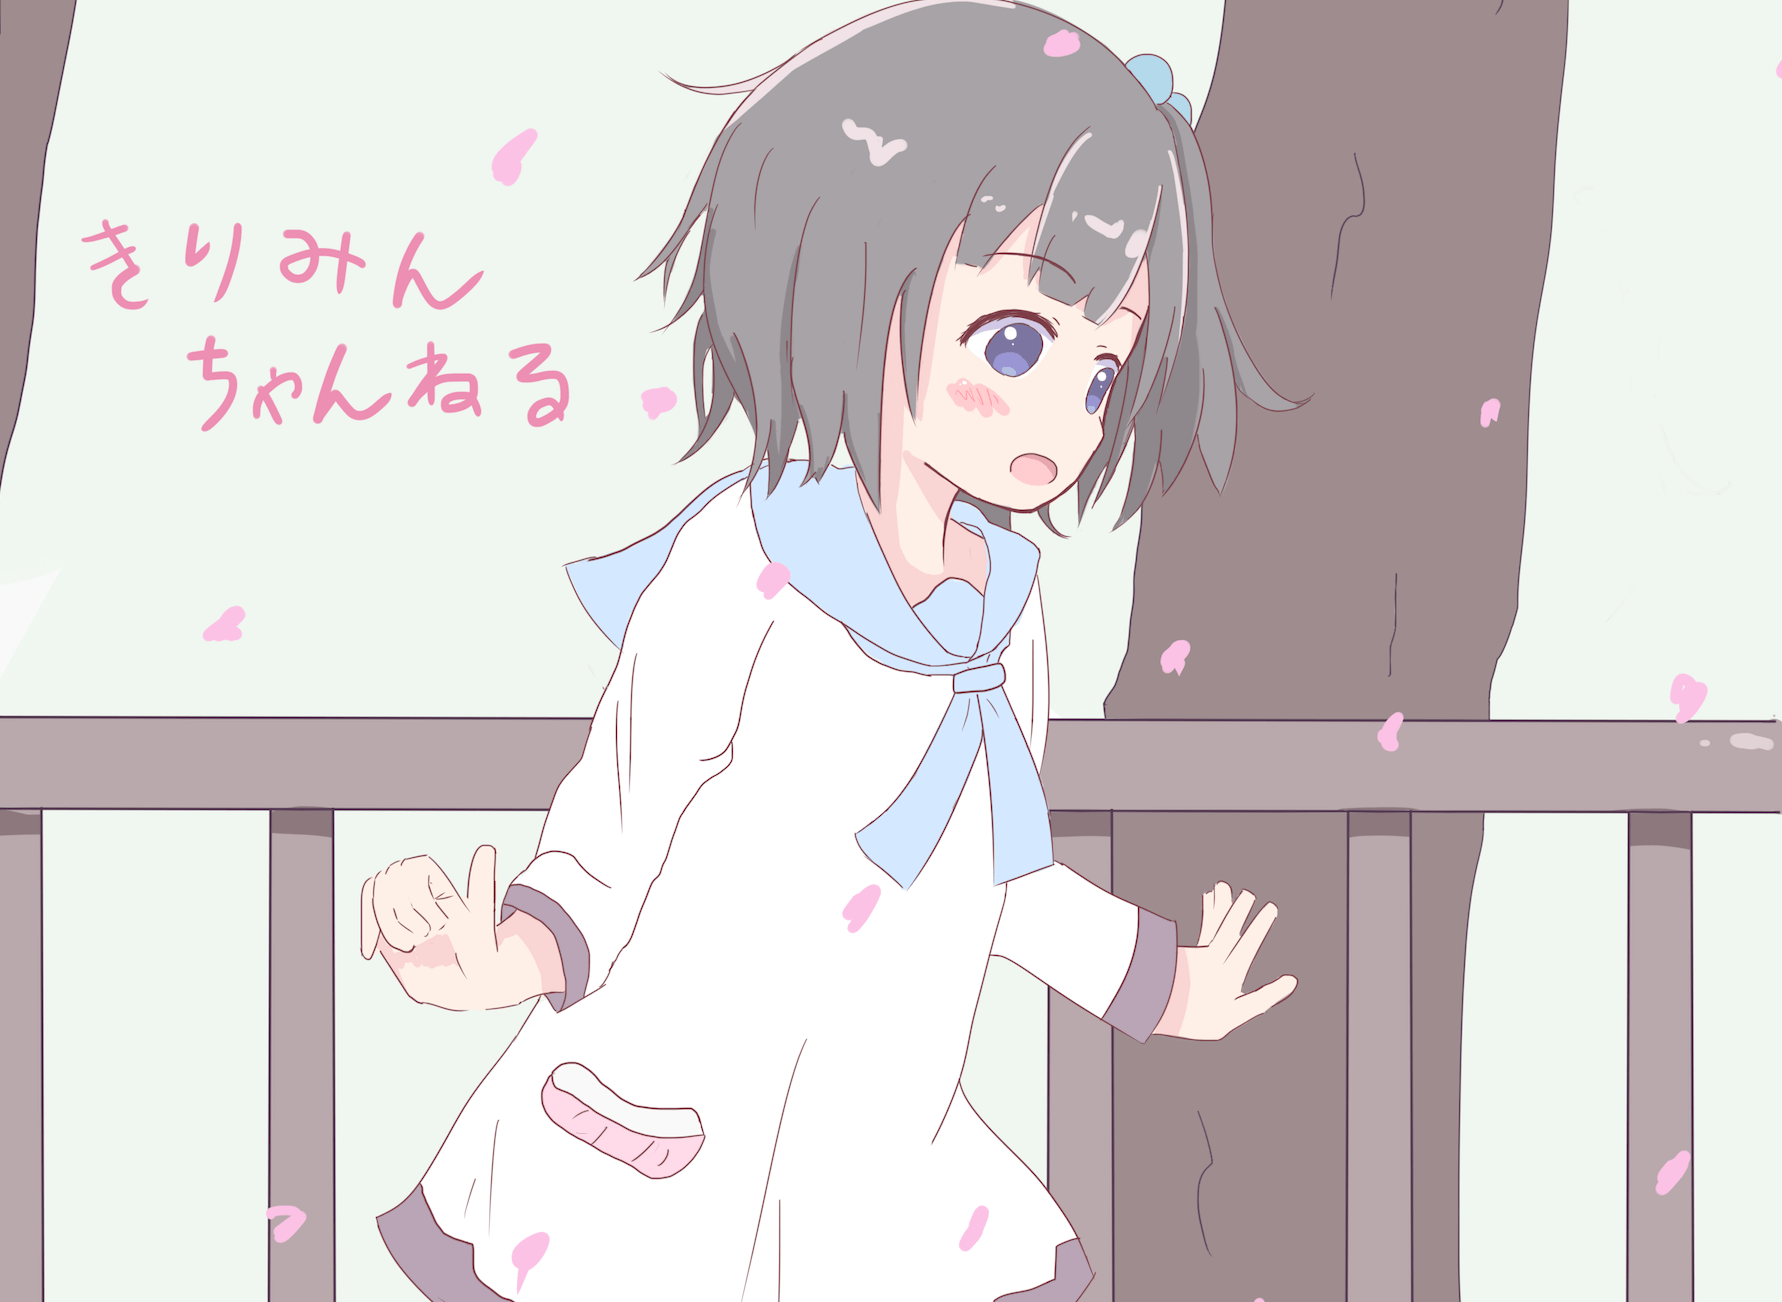
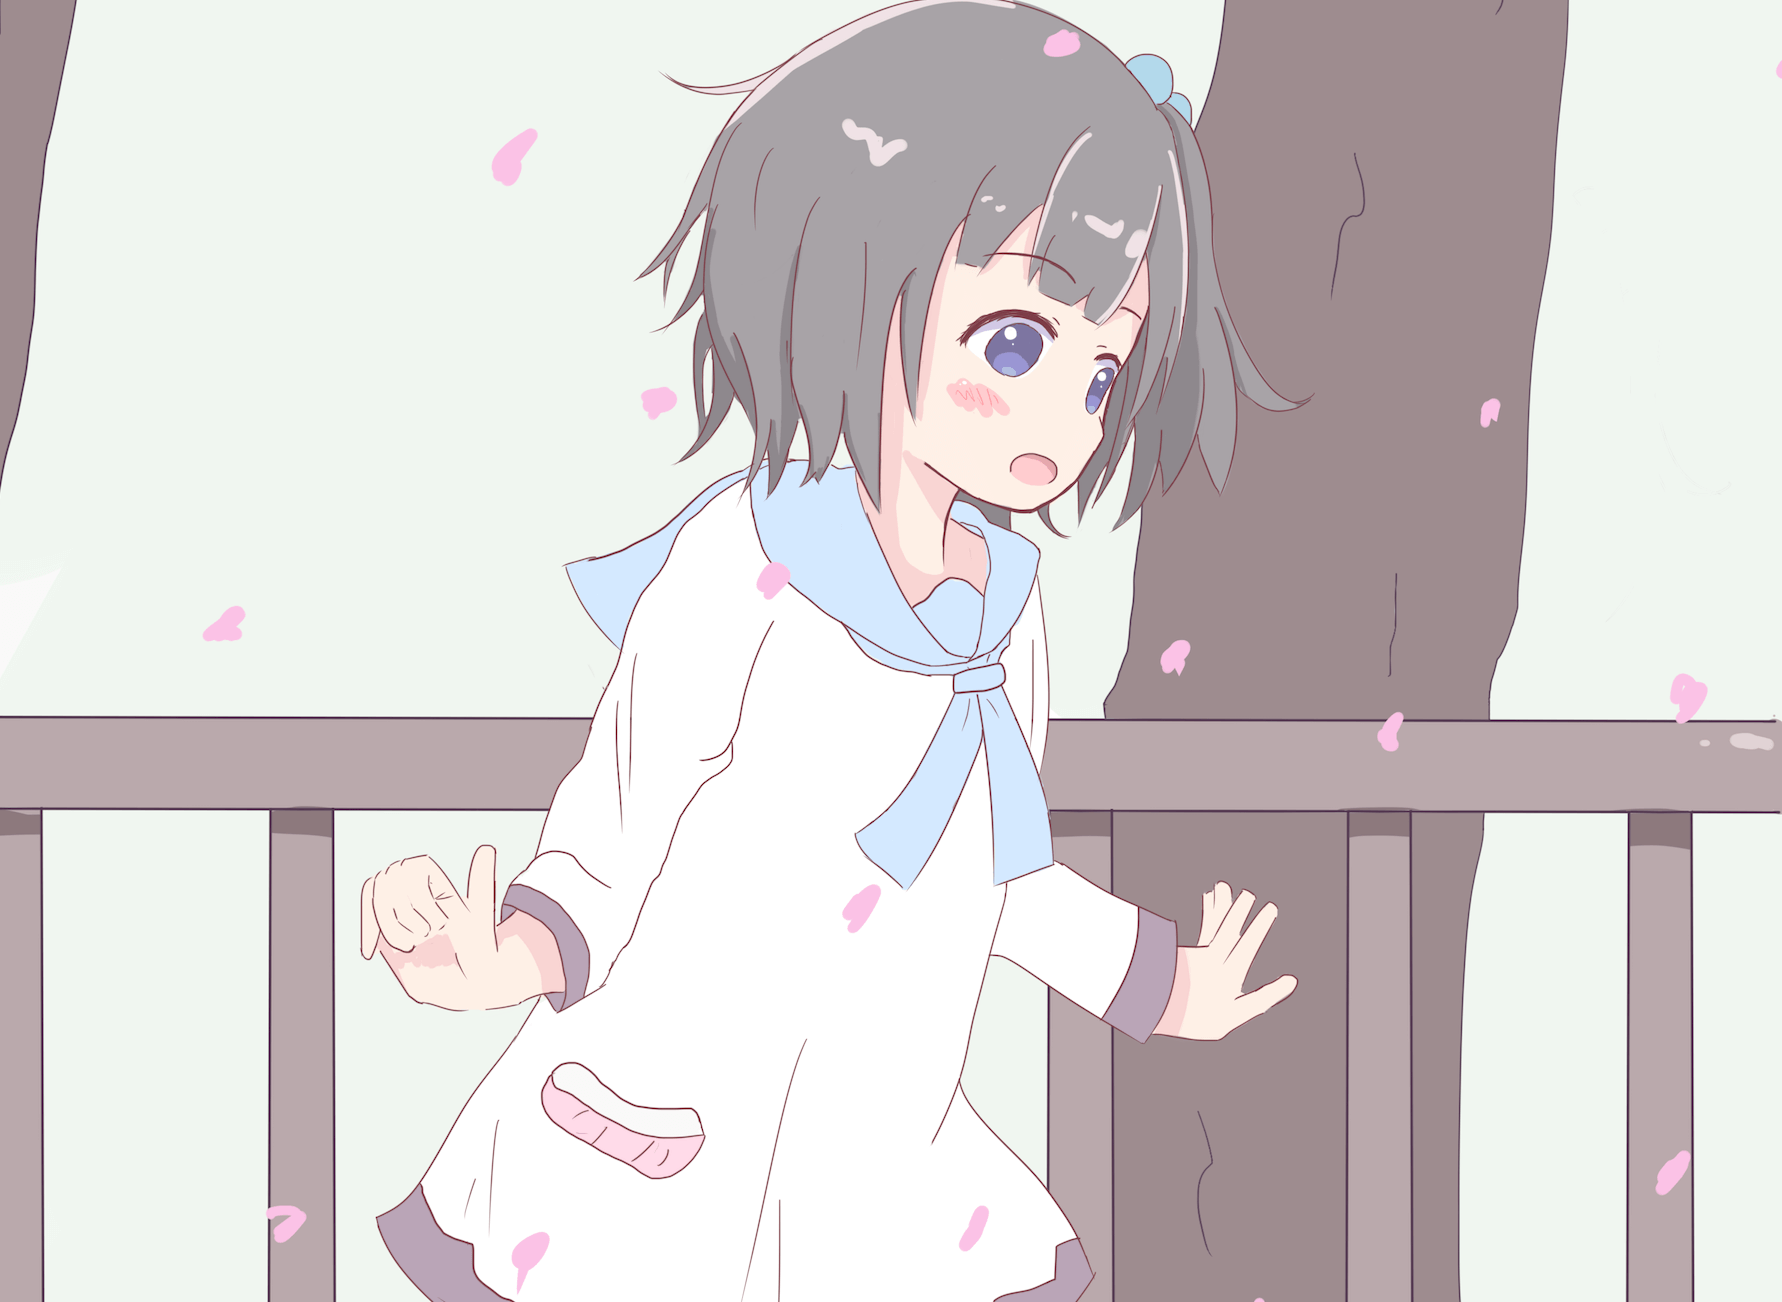
add

Changed region(s): [[0.0926, 0.2458, 0.3395, 0.3379], [0.0617, 0.1536, 0.2778, 0.2458], [0.0309, 0.1536, 0.0617, 0.1843]]

diff --git a/src/App.js b/src/App.js
@@ -2,8 +2,9 @@ import React, { Component } from 'react';
 import YouTube from 'react-youtube';
 
 import header from './assets/header_image.png';
+import logo from './assets/kirimin_chsolologo.png'
 import op1 from './assets/op_image1.png'
-import op2 from './assets/op_image2.png'
+import op2 from './assets/op_image4.png'
 import op3 from './assets/op_image3.png'
 import sd from './assets/sd.png'
 import './App.css';
@@ -62,6 +63,7 @@ class App extends Component {
               <img className='HeaderOpImage3' src={op3}/>
               <div className='HeaderImageCover' />
               <img className='HeaderImage' src={header} />
+              <img className='HeaderImageLogo' src={logo} />
             </div>
           </header>
         </section>
@@ -121,8 +123,8 @@ class App extends Component {
           <div className="GalleryContainer">
             <img src="./gallery/lgtm1.png"/>
             <img src="./gallery/lgtm2.png"/>
-            <img src="./gallery/lgtm3.png"/>
             <img src="./gallery/lgtm4.png"/>
+            <img src="./gallery/lgtm3.png"/>
             <img src="./gallery/teigi_taisha.jpg"/>
             <img src="./gallery/i_think_so_too.jpg"/>
           </div>
@@ -157,7 +159,7 @@ class App extends Component {
   }
 
   componentDidMount() {
-    fetch("https://www.googleapis.com/youtube/v3/playlistItems?part=snippet&playlistId=UUqN87Ye4TNLB04EFhxJ0L5w&maxResults=8&key=AIzaSyC0FXYDHyJJMA5D8eSbhISejSknJq_EXOI")
+    fetch("https://www.googleapis.com/youtube/v3/playlistItems?part=snippet&playlistId=UUqN87Ye4TNLB04EFhxJ0L5w&maxResults=5&key=AIzaSyC0FXYDHyJJMA5D8eSbhISejSknJq_EXOI")
       .then(results => {
         return results.json()
       }).then(data => {

diff --git a/src/App.css b/src/App.css
@@ -39,8 +39,14 @@ h1 {
   animation: headerTitleAnimation 1.5s ease 2s forwards;
 }
 @keyframes headerTitleAnimation {
-  0% {opacity: 0}
-  100% {opacity: 1}
+  0% {
+    opacity: 0;
+    transform: translateY(100%)
+  }
+  100% {
+    opacity: 1;
+    transform: translateY(0%)
+  }
 }
 
 .HeaderText1 {
@@ -57,9 +63,15 @@ h1 {
   z-index: 3;
 }
 @keyframes headerText1Animation {
-  30% {opacity: 1}
-  60% {opacity: 1}
-  100% {opacity: 0}
+  30% {
+    opacity: 1;
+  }
+  60% {
+    opacity: 1;
+  }
+  100% {
+    opacity: 0;
+  }
 }
 
 .HeaderText2 {
@@ -193,6 +205,28 @@ h1 {
   100% {
     opacity: 1;
     transform: translateX(-100%)
+  }
+}
+
+.HeaderImageLogo {
+  position: absolute;
+  width: 30%;
+  height: auto;
+  top: 25%;
+  left: 0;
+  right: 60%;
+  margin: auto;
+  opacity: 0;
+  z-index: 0;
+  animation: HeaderImageLogoAnimation 1.5s ease 8s forwards;
+}
+@keyframes HeaderImageLogoAnimation {
+  0% {opacity: 0;
+    transform: translateX(10%)
+  }
+  100% {
+    opacity: 1;
+    transform: translateX(0%)
   }
 }
 

diff --git a/public/index.html b/public/index.html
@@ -21,9 +21,11 @@
     <meta property="og:description" content="バーチャル幼女プログラマーきりみんちゃんオフィシャルサイト。" />
     <meta property="og:url" content="http://kirimin-chan.site" />
     <meta property="og:site_name" content="きりみんちゃん.site" />
-    <meta property="og:image" content="./logo.png" />
+    <meta property="og:image" content="http://kirimin.me/face_icon.png" />
     <meta name="twitter:card" content="summary" />
     <meta name="twitter:site" content="@kirimin" />
+    <meta name="twitter:title" content="きりみんちゃん.site" />
+    <meta name="twitter:description" content="バーチャル幼女プログラマーきりみんちゃんオフィシャルサイト。" />
     <link href="http://netdna.bootstrapcdn.com/font-awesome/4.7.0/css/font-awesome.min.css" rel="stylesheet">
     <link rel="manifest" href="%PUBLIC_URL%/manifest.json">
     <link rel="icon" type="image/x-icon" href="%PUBLIC_URL%/favicon.ico">
